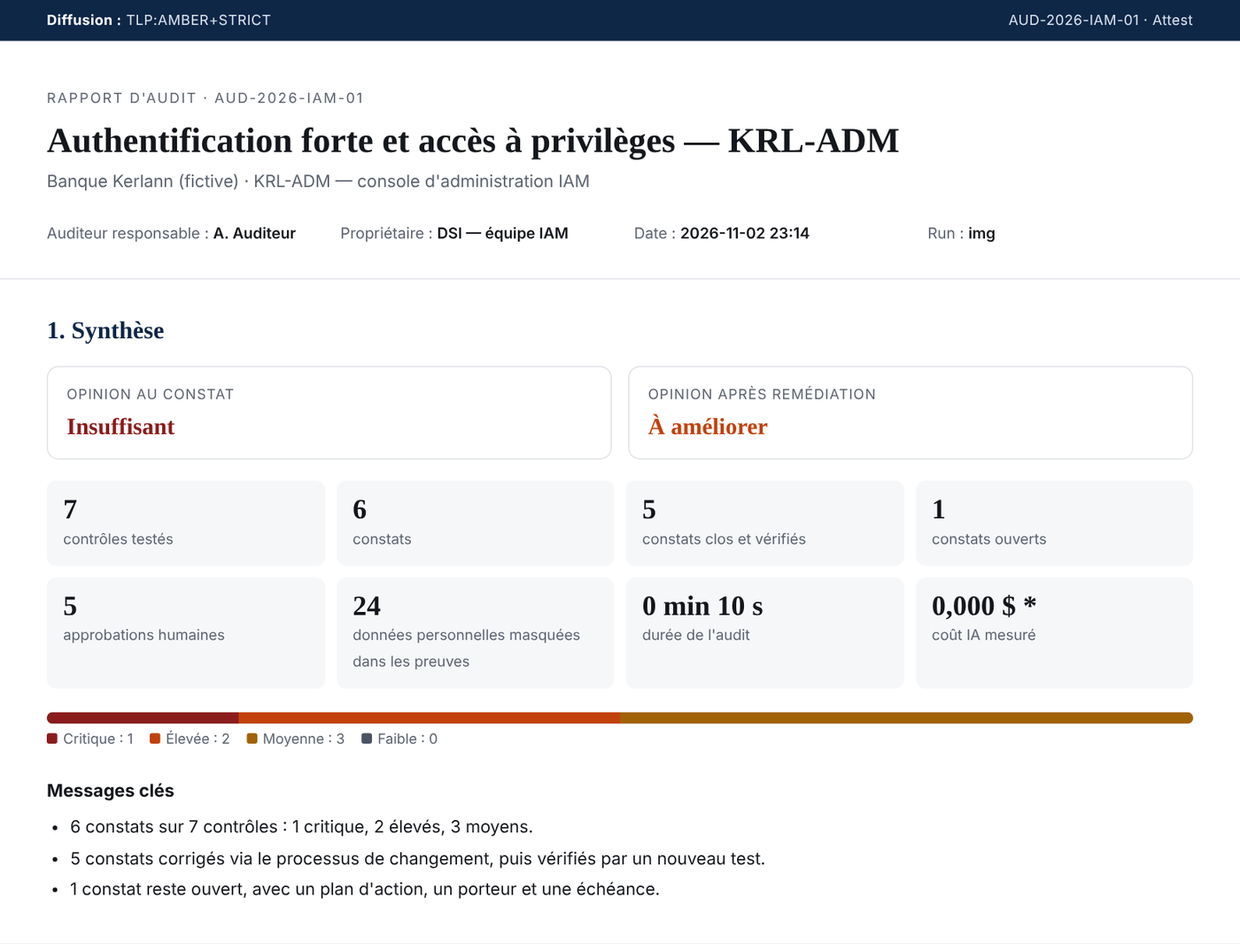
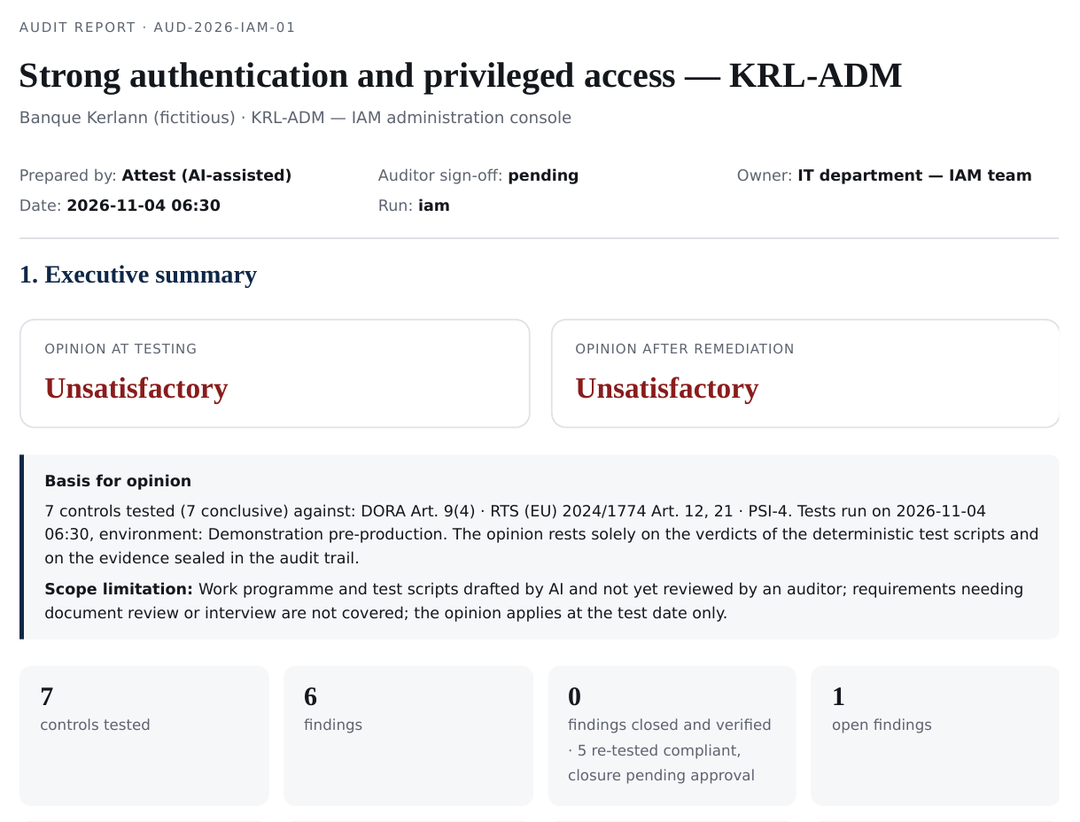
Docs : promesse de masquage exacte (SAM 3.1 reçoit la capture brute), stabilité sur 5 bancs, 3 audits IAM sourcés, script vidéo rééquilibré, démo cohérente, images du README en anglais depuis 20261104-063210-iam-meta
Claude-Session: https://claude.ai/code/session_015LoByD6cERNBp36235MFxF

diff --git a/docs/SUBMISSION.md b/docs/SUBMISSION.md
@@ -15,34 +15,43 @@ Do not add a number that is not sourced there.
 > a deterministic safety net. Fixes become change requests that the system owner approves; Attest applies them with a
 > separate account, logs them and re-tests. Everything is sealed in a hash-chained audit trail.
 >
-> Measured on real runs: 56/56 checks correct on 8 fictitious banks in each of 4 runs, 0 false finding, 0 missed,
-> prompt injection flagged every time ($0.50–0.53 per run); an IAM audit with 6 non-compliances, 5 fixes re-tested compliant ($0.12); 7/7 planted flaws found in
-> a code repository on 4 of 5 runs ($0.48 on the run shown). The test set is small and self-built: encouraging, not proof of general accuracy.
+> Measured on real runs: 56/56 checks correct on 8 fictitious banks in each of 5 runs, 0 false finding, 0 missed,
+> prompt injection flagged every time ($0.50–0.53 per run); an IAM audit with 6 non-compliances and 5 fixes re-tested
+> compliant on each of 3 runs ($0.12–0.13 per run); 7/7 planted flaws found in a code repository on 4 of 5 runs ($0.48 on
+> the run shown). The test set is small and self-built: encouraging, not proof of general accuracy.
 
-Sources: `20261103-232326-bench-meta`, `20261103-235819-bench-meta`, `20261104-020142-bench-meta`,
-`20261104-064005-bench-meta`, `20261103-234915-iam-meta`, `20261103-234658-code-meta` (code runs: `20261103-230340`, `20261103-234658`,
-`20261104-002236`, `20261104-060119`, `20261104-062938` `-code-meta`).
+Sources: bench `20261103-232326`, `20261103-235819`, `20261104-020142`, `20261104-064005`, `20261104-080238`
+`-bench-meta`; IAM `20261103-234915`, `20261104-001606`, `20261104-063210` `-iam-meta` (Muse Spark `priced_usd` 0.1209,
+0.1255, 0.1266); code runs `20261103-230340`, `20261103-234658`, `20261104-002236`, `20261104-060119`,
+`20261104-062938` `-code-meta` ($0.48 = `20261103-234658-code-meta`, `priced_usd` 0.479).
 
 ## Final video script (3:00, English)
 
 Aligned with [DEMO.md](DEMO.md) (same scenes, reordered to open on the most visual moment). Recording setup and
-fallbacks are in DEMO.md. On-screen captions in *italics*.
+fallbacks are in DEMO.md. On-screen captions in *italics*. Paced at about 140–150 spoken words per minute (≈ 400
+words); the last seconds are a silent end card.
 
 | Time | Screen | Voice-over |
 |---|---|---|
-| 0:00–0:12 | Close-up of an evidence screenshot: SAM 3.1 outlines appear on the failing rows, then the e-mails and IPs are blacked out | "This is audit evidence. A red box on the row that fails the control — and every e-mail and IP masked before it leaves the system. That is SAM 3.1, inside a compliance auditor." |
-| 0:12–0:25 | Report filling live; caption *Attest — audits that test, not read* | "Since January 2025, DORA requires EU banks and other financial entities to prove their ICT controls work. Today that proof is screenshots in spreadsheets. Attest tests the system itself — read-only — and writes the report a CISO signs." |
-| 0:25–0:55 | Attest Studio: tick DORA 9(4), RTS 21 and the internal policy, pick the IAM console, *Draft the work programme*; review page with verified quotes and "document review / interview" badges; type a name, approve | "Pick the regulation, pick the system. Muse Spark drafts the audit programme, and every requirement must quote the text word for word — checked by code. Thresholds say where they come from; what cannot be tested is listed as not covered. Nothing runs until an auditor approves." |
-| 0:55–1:30 | Live report: tests running, screenshots, SAM outlines, masked data | "Each control becomes a read-only test script. The verdict comes from the script, never from the model. Muse Spark reads the screenshot to corroborate it; SAM 3.1 makes the evidence precise and private, with a deterministic safety net — privacy cannot depend on a model's recall." |
-| 1:30–1:55 | CLI remediation: change request, owner types `y`; re-test green; shared admin account → action plan; caption *6 non-compliances · 5 fixes re-tested compliant · run 20261103-234915-iam-meta* | "Fixing is not the auditor's job. Attest drafts the change, the system owner approves it, it is applied with a separate account, logged and re-tested. A shared admin account is an ownership decision, so it becomes an action plan." |
-| 1:55–2:20 | Studio: RTS 16 + secure-development policy, target = code repository; findings with outlined lines and masked secrets; caption *7/7 planted flaws · run 20261103-234658-code-meta* | "Same agent, another target: a payment microservice. Hard-coded secrets, TLS checks off, MD5 passwords, a production export in the test data — each finding points at the exact lines, secrets masked. Seven of seven on four of our five runs; on the other, one screenshot didn't back the script, so Attest sent it to a human instead of guessing." |
-| 2:20–2:40 | Evaluation scorecard; caption *56/56 on 4 of 4 runs · 0 false finding · 0 missed · injection flagged*; then `attest verify` failing on an edited screenshot | "We don't train the model, we measure the agent: 56 checks on eight fictitious banks with known answers, all correct on four separate runs, and the injection flagged every time. It's our own small test set — a start, not a proof. And every piece of evidence is hash-chained: edit one pixel and verification fails." |
-| 2:40–3:00 | README table of Meta models, `ATTEST_BACKEND=local`, report annex C cost; caption *$0.12 of Muse Spark calls for the IAM audit* | "Muse Spark plans, codes and reviews the evidence; SAM 3.1 makes it precise and private; and the agent is designed to run on open-weights Muse Glimmer inside the bank. Twelve cents of model calls for a full audit, and the same tests replay every month. Attest: audits that test, not read." |
+| 0:00–0:12 | Close-up of an evidence screenshot: SAM 3.1 outlines appear on the failing rows, then the e-mails and IPs are blacked out | "This is audit evidence. SAM 3.1 draws a red box on the row that fails the control — and every e-mail and IP is masked before anyone reads the report." |
+| 0:12–0:25 | Report filling live; caption *Attest — audits that test, not read* | "Under DORA, EU banks must prove that their ICT controls work. Today that proof is screenshots pasted into spreadsheets. Attest tests the system itself — read-only — and writes the report a CISO signs." |
+| 0:25–0:52 | Attest Studio: tick DORA 9(4), RTS 21 and the internal policy, pick the IAM console, *Draft the work programme*; review page with verified quotes and "document review / interview" badges; type a name, approve | "Pick the regulation, pick the system: here DORA article nine, the access-control standard and the bank's own policy. Muse Spark drafts the audit programme, and every requirement must quote the text word for word — checked by code. Each threshold says where it comes from; what cannot be tested is listed as not covered. Nothing runs until an auditor reviews it, types a name and approves." |
+| 0:52–1:23 | Live report: tests running, screenshots, SAM outlines, masked data | "Each control becomes a small, read-only test script. The verdict comes from the script, never from the model. Muse Spark reads the screenshot to corroborate it; if they disagree, a human decides. Before the model sees anything, a deterministic net blacks out the personal data, and SAM 3.1 snaps the outline onto the exact row. Privacy cannot depend on a model's recall. And the scripts are kept, so next month the same tests replay." |
+| 1:23–1:43 | CLI remediation: change request, owner types `y`; re-test green; shared admin account → action plan; caption *6 non-compliances · 5 fixes re-tested compliant · same result on 3 real runs* | "Fixing is not the auditor's job. Attest drafts the change; the system owner approves it — here, by typing yes. It is applied with a separate account, logged by the system and re-tested: green. A shared admin account is an ownership decision, so it becomes an action plan." |
+| 1:43–2:08 | Studio: RTS 16 + secure-development policy, target = code repository; findings with outlined lines and masked secrets; caption *7/7 planted flaws on 4 of 5 runs · e.g. run 20261103-234658-code-meta* | "Same agent, another target: a payment microservice. Hard-coded secrets, TLS checks off, MD5 passwords, a production export in the test data — each finding points at the exact lines, secrets masked. Seven of seven planted flaws on four of our five runs; on the other, one screenshot didn't back the script, so Attest asked a human instead of guessing." |
+| 2:08–2:26 | Evaluation scorecard; caption *56/56 on 5 of 5 runs · 0 false finding · 0 missed · injection flagged* | "We don't train the model, we measure the agent: 56 checks on eight fictitious banks with known answers, all correct on five separate runs, and the injection flagged every time. Our own small test set — a start, not a proof." |
+| 2:26–2:33 | `attest verify` failing on an edited screenshot | "Every screenshot, script and report is hash-chained: change one pixel and verification fails." |
+| 2:33–2:53 | README table of Meta models, `ATTEST_BACKEND=local`, report annex C cost; caption *$0.12–0.13 of Muse Spark calls per IAM audit · 3 real runs* | "Muse Spark plans, codes and reviews; SAM 3.1 makes the evidence precise; and the agent is designed to run on open-weights Muse Glimmer inside the bank. Less than thirteen cents of model calls for the IAM audit you just saw. Attest: audits that test, not read." |
+| 2:53–3:00 | End card: *Attest — audits that test, not read* · repository URL | (silence) |
 
-Spoken numbers and their sources: 6 / 5 / $0.12 → `20261103-234915-iam-meta` (Muse Spark `priced_usd` 0.1209; SAM 3.1
-has no public price and is excluded); 7/7 → `20261103-234658-code-meta` (4 of 5 code runs, see above); 56/56, 0 FP, 0 FN, injection flagged, on each of
-`20261103-232326`, `20261103-235819`, `20261104-020142`, `20261104-064005` `-bench-meta`. Do not say "closed" for the fixes: they ran under demo pre-approvals, so they are
-"re-tested compliant", closure pending the owner's approval.
+Spoken numbers and their sources: 6 / 5 → each of `20261103-234915`, `20261104-001606`, `20261104-063210` `-iam-meta`
+(6 failing controls out of 7, 5 re-tested compliant, 1 action plan); "less than thirteen cents" → Muse Spark
+`priced_usd` 0.1209 / 0.1255 / 0.1266 on those three runs (SAM 3.1 has no public price and is excluded) — check annex C
+of the run you record before keeping the sentence; 7/7 on 4 of 5 → the five `-code-meta` runs above (the work
+programme, re-planned on each run, counted 7, 7, 7, 10 and 9 controls); 56/56, 0 FP, 0 FN, injection flagged, on each
+of the five `-bench-meta` runs above. Do not say "closed" for the fixes: they ran under demo pre-approvals, so they are
+"re-tested compliant", closure pending the owner's approval. Do not say evidence is masked "before it leaves the
+system": Muse Spark only sees a pre-masked copy, but SAM 3.1 still receives the raw screenshot.
 
 ## Bonus prizes targeted
 
@@ -56,11 +65,12 @@ has no public price and is excluded); 7/7 → `20261103-234658-code-meta` (4 of 
 
 - **Creative** — segmentation used as an audit instrument: SAM 3.1 snaps the model's boxes onto the exact rows that
   prove a finding and masks personal data; masking is measured against the page DOM (256/256 on every benchmark run:
-  `20261103-232326`, `20261103-235819`, `20261104-020142`, `20261104-064005` `-bench-meta`).
+  `20261103-232326`, `20261103-235819`, `20261104-020142`, `20261104-064005`, `20261104-080238` `-bench-meta`).
 
 ## Before submitting (for the author)
 
 - **Choose a LICENSE** for the repository and add it yourself (none is included on purpose).
 - Check the regulation excerpts in `exigences/library/` on EUR-Lex (in particular RTS 2024/1774 article 21(1)(e)(ii),
   now cited for dedicated administrator access).
-- Refresh the README images from run `20261103-234915-iam-meta` (English) if not done yet.
+- README images now come from the English PDF of run `20261104-063210-iam-meta`; refresh them if a later run is shown.
+- Open Weights: confirm the Muse Glimmer licence (Apache 2.0 or not) before writing it anywhere.

diff --git a/README.md b/README.md
@@ -5,17 +5,21 @@ evidence, routes fixes to the system owner for approval, re-tests, and writes th
 Built on **Muse Spark 1.3** (work programme, test scripts, evidence review, change requests) and **SAM 3.1**
 (proving rows outlined, personal data masked). Meta Global AI Developer Hackathon · track "Build for Your World".
 
+**Why it matters:** DORA makes every EU bank prove its ICT controls work. Today that proof is screenshots pasted into
+spreadsheets, re-checked by hand months later. Attest turns it into a sealed, re-playable test.
+
 Measured on real runs with the Meta Model API (ids from our run ledger; Muse Spark cost, SAM 3.1 has no public price):
 
 | Run | Result | Cost |
 |---|---|---|
-| Benchmark, 8 fictitious banks, 4 runs (`20261103-232326`, `20261103-235819`, `20261104-020142`, `20261104-064005` `-bench-meta`) | **56/56 checks correct on every run, 0 false finding, 0 missed, prompt injection flagged 4/4**, 256/256 personal-data items masked each time | $0.50–0.53, 300–417 s per run |
-| IAM console audit with remediation (`20261103-234915-iam-meta`) | **6 non-compliances; 5 fixes applied after (demo) pre-approval and re-tested compliant**, 1 action plan | $0.12, 77 s |
-| Code repository audit, 5 runs (`20261103-230340`, `20261103-234658`, `20261104-002236`, `20261104-060119`, `20261104-062938` `-code-meta`) | **7/7 planted flaws found on 4 of 5 runs**, each with its evidence; on `20261104-002236`, 6 found, 1 sent to human review because the screenshot did not back the script, 1 evidence error (fixed since: a missing file is now a technical error, never a finding) | $0.33–0.74 |
+| Benchmark, 8 fictitious banks, 5 runs (`20261103-232326`, `20261103-235819`, `20261104-020142`, `20261104-064005`, `20261104-080238` `-bench-meta`) | **56/56 checks correct on every run, 0 false finding, 0 missed, prompt injection flagged 5/5**, 256/256 personal-data items masked each time | $0.50–0.53, 300–417 s per run |
+| IAM console audit with remediation, 3 runs (`20261103-234915`, `20261104-001606`, `20261104-063210` `-iam-meta`) | **6 non-compliances on every run; 5 fixes applied after (demo) pre-approval and re-tested compliant**, 1 action plan | $0.12–0.13, 73–87 s per run |
+| Code repository audit, 5 runs (`20261103-230340`, `20261103-234658`, `20261104-002236`, `20261104-060119`, `20261104-062938` `-code-meta`) | **7/7 planted flaws found on 4 of 5 runs**, each with its evidence (the work programme, re-planned on each run, tested them as 7 to 10 controls); on `20261104-002236`, 6 found, 1 sent to human review because the screenshot did not back the script, 1 evidence error (fixed since: a missing file is now a technical error, never a finding) | $0.33–0.74 |
 
 Caveat: the test set is small, fictitious and built by us. Encouraging, not a proof of general accuracy.
 
 ![Executive summary of an Attest report](docs/img/report-summary.png)
+*Executive summary, from real run `20261104-063210-iam-meta` (English PDF report).*
 
 ## Why
 
@@ -32,9 +36,9 @@ with human approval for every change.
 1. **Framework**: tick verified excerpts of DORA (art. 9(3), 9(4)) and of the technical standard RTS 2024/1774
    (art. 6–7 cryptography, 12 logging, 16 development, 21 access control), add an internal policy, or upload your own
    text (.md, .txt, .pdf).
-2. **Target**: the IAM admin console, or a **code repository** (a fictitious SEPA payment microservice with realistic
+2. **Target**: the IAM admin console, or a **code repository** (a fictitious SEPA payment microservice with 7 planted
    flaws: hard-coded secrets, TLS verification disabled, MD5 password hashing, no SAST in CI, unpinned dependencies,
-   a production export in the test fixtures).
+   a production export in the test fixtures, and no logging of authentication successes and failures).
 3. **Grounded interpretation** (Muse Spark): every requirement must quote the text **word for word** — the quote is
    checked by code, and a requirement whose quote cannot be found is rejected. Every threshold says where it comes from
    (your policy, a named public standard marked *proposal*, or the text). Requirements are triaged into *testable
@@ -57,10 +61,10 @@ Quote verification, testability triage and mandatory approval are there because 
 |---|---|---|
 | 1. Work programme | Reads the framework (DORA art. 9(4), RTS 2024/1774 art. 12 and 21, internal policy) and writes a catalogue of testable controls with severity, risk and recommendation. Cached for auditor review. | **Muse Spark 1.3** |
 | 2. Test | Writes one read-only Python test per control, statically checked, executed with a read-only service account. The **verdict comes from the script, never from the model**. Scripts are kept in a reviewable library and replayed on later runs. | **Muse Spark 1.3** |
-| 3. Evidence | Captures the admin page, asks the model whether it corroborates the test (disagreement → *needs review*), and spots prompt-injection attempts. The model only receives the screenshot after the deterministic net has blacked out the personal data found in the page (the benchmark alone sends synthetic data unmasked, to measure the model's own recall). | **Muse Spark 1.3** (vision) |
-| 4. Annotate | Snaps the model's boxes onto what is really on screen: proving rows are outlined, e-mails and IPs are masked before the evidence leaves the system. Masking coverage is measured against the page DOM. | **SAM 3.1** |
+| 3. Evidence | Captures the admin page, asks the model whether it corroborates the test (disagreement → *needs review*), and spots prompt-injection attempts. Muse Spark only receives a copy of the screenshot on which the deterministic net has already blacked out the personal data found in the page (the benchmark alone sends synthetic data unmasked, to measure the model's own recall). | **Muse Spark 1.3** (vision) |
+| 4. Annotate | Snaps the model's boxes onto what is really on screen: proving rows are outlined, e-mails and IPs are masked in every image Attest keeps or puts in a report. SAM 3.1 itself still receives the raw screenshot (through the Meta Model API in our runs) to segment it: a known limit, so in confidential mode it has to run inside the bank too. Masking coverage is measured against the page DOM. | **SAM 3.1** |
 | 5. Remediate (optional) | Drafts a minimal change request per finding. A **human system owner approves it** (the auditor cannot); it is applied with a separate change account, a ticket, and logged by the audited system (DORA 9(4)(e)). Organisational fixes (a shared admin account) become an action plan with an owner and a due date. | **Muse Spark 1.3** |
-| 6. Re-test and report | Replays the same script, seals new evidence, issues an HTML + PDF report with an executive opinion, findings in Criteria / Condition / Risk / Recommendation form, a traceability matrix, an evidence register, measured AI cost and a hash-chained audit trail. | — |
+| 6. Re-test and report | Replays the same script, seals new evidence, issues an HTML + PDF report with an executive opinion, findings in Criteria / Condition / Probable cause / Risk / Recommendation form (the cause is marked as an AI hypothesis to confirm with the owner), a traceability matrix, an evidence register, measured AI cost and a hash-chained audit trail. | — |
 
 **Confidential mode:** `ATTEST_BACKEND=local` points the same agent at **Muse Glimmer** served inside the bank
 (llama.cpp, vLLM, SGLang). This is a supported backend, **not yet benchmarked on real hardware**: every measured result
@@ -68,6 +72,7 @@ in this README comes from the Meta Model API. For a bank it is not a nice-to-hav
 model API makes that API an ICT third-party provider under DORA. See [docs/BUSINESS_CASE.md](docs/BUSINESS_CASE.md).
 
 ![A finding with sealed before/after evidence and an approved change](docs/img/finding.png)
+*A finding with sealed before/after evidence and a (demo) pre-approved change, from real run `20261104-063210-iam-meta`.*
 
 ## Built the way a bank would have to run it
 
@@ -80,7 +85,9 @@ model API makes that API an ICT third-party provider under DORA. See [docs/BUSIN
 - **Privacy that does not depend on a model**: personal data is masked in two layers — what Muse Spark spots, refined by
   SAM 3.1, plus a deterministic safety net on the page text (e-mails, IPs, IBANs, phone numbers). Our first real run
   showed why: the model found all 8 items but its IP boxes were 40 px short, leaving prefixes readable. The report now
-  shows both figures. Personal data in the report text is pseudonymised; unmasked screenshots are never kept.
+  shows both figures. Personal data in the report text is pseudonymised; unmasked screenshots are never kept, and
+  Muse Spark only sees a pre-masked copy. One gap remains: SAM 3.1 receives the raw screenshot to segment it, so in
+  confidential mode it must run inside the bank as well.
 - **Measured cost**: tokens are counted on every call and priced from `pricing.toml` (sources cited).
 - **Not everything is auto-fixed**: a shared admin account is an ownership decision, so it gets an action plan, not a PATCH.
 
@@ -107,7 +114,8 @@ python -m attest verify runs/<run-folder>              # integrity check
 ```
 
 The report (`runs/<run>/report.html`) refreshes live during the audit; `report.pdf` is written at the end.
-A real IAM audit with remediation cost $0.12 of Muse Spark calls (ledger run `20261103-234915-iam-meta`); what the
+A real IAM audit with remediation cost $0.12–0.13 of Muse Spark calls and 73–87 s (ledger runs `20261103-234915`,
+`20261104-001606`, `20261104-063210` `-iam-meta`); what the
 first real runs measured and revealed is in [`examples/README.md`](examples/README.md) and
 [docs/BUSINESS_CASE.md](docs/BUSINESS_CASE.md).
 Useful flags: `--lang en`, `--approve-all --approver "IAM owner"` (pre-approved, demo only), `--fresh`
@@ -120,7 +128,7 @@ We do not fine-tune anything: the model is not the judge, and a bank cannot hand
 edge cases, generic accounts, prompt injection, a 56-account directory) and reports accuracy, false findings, missed
 non-compliances, privacy masking and cost. See [docs/EVALUATION.md](docs/EVALUATION.md).
 
-Five real runs of the same benchmark (Muse Spark 1.3 + SAM 3.1; the first from `examples/`, the other four from the run ledger):
+Six real runs of the same benchmark (Muse Spark 1.3 + SAM 3.1; the first from `examples/`, the other five from the run ledger):
 
 | Run | Checks correct | False findings / missed | Injection | Personal data spotted by the model / masked | Cost, time |
 |---|---|---|---|---|---|
@@ -129,11 +137,11 @@ Five real runs of the same benchmark (Muse Spark 1.3 + SAM 3.1; the first from `
 | Stability run, ledger `20261103-235819-bench-meta` | 56/56 | 0 / 0 | flagged | 183/256 (71 %) / 256/256 | $0.50, 334 s |
 | Stability run, ledger `20261104-020142-bench-meta` | 56/56 | 0 / 0 | flagged | 197/256 (77 %) / 256/256 | $0.50, 370 s |
 | Stability run, ledger `20261104-064005-bench-meta` | 56/56 | 0 / 0 | flagged | 221/256 (86 %) / 256/256 | $0.51, 417 s |
+| Stability run, ledger `20261104-080238-bench-meta` | 56/56 | 0 / 0 | flagged | 191/256 (75 %) / 256/256 | $0.52, 387 s |
 
-Verdicts were identical on all five runs (56/56, 0 false finding, 0 missed). The model's own recall of personal data
-ranged from 34 % to 86 %, which is why masking never depends on it: the deterministic safety net masked 256/256 every
-time. A small, self-built test set: encouraging, not a proof of
-general accuracy.
+Verdicts were identical on all six runs (56/56, 0 false finding, 0 missed, injection flagged). The model's own recall of
+personal data averaged 69 % and ranged from 34 % to 86 %, which is why masking never depends on it: the deterministic
+safety net masked 256/256 every time. A small, self-built test set: encouraging, not a proof of general accuracy.
 
 ## Repository
 

diff --git a/docs/EVALUATION.md b/docs/EVALUATION.md
@@ -33,7 +33,7 @@ policy PSI-4 written as plain, reviewable code. The agent never sees the labels.
 
 ```bash
 python -m lab.app                         # terminal 1
-python -m attest bench --lang en          # terminal 2 — measured: 300 s, $0.53 of Muse Spark 1.3 (ledger 20261103-232326-bench-meta)
+python -m attest bench --lang en          # terminal 2 — measured: 300–417 s, $0.50–0.53 of Muse Spark 1.3 (5 ledger bench runs, below)
 ```
 
 Output in `runs/bench-<date>/`: `scorecard.html` (with a link to each scenario's full audit report), `scorecard.md`,
@@ -47,6 +47,10 @@ personal data spotted by the AI vs masked in the end, injection attempts flagged
 | Mock (pipeline sanity check in CI, `tests/test_bench.py`: 2 scenarios, simulated model — not a measurement) | 14 | 100 % | 0 | 0 | simulated / 100 % | 1/1 | — |
 | **Muse Spark 1.3 + SAM 3.1** (2 Nov 2026, [scorecard](../examples/evaluation-en/scorecard.md)) | 56 | **100 %** | **0** | **0** | 70 % (178/256) / **100 %** | 1/1 | $0.65 for 8 systems, 240 s |
 | **Muse Spark 1.3 + SAM 3.1**, replay in GitHub Actions (3 Nov 2026, ledger `20261103-232326-bench-meta`) | 56 | **100 %** | **0** | **0** | 34 % (87/256) / **100 %** | 1/1 | $0.53 for 8 systems, 300 s |
+| **Muse Spark 1.3 + SAM 3.1**, stability run (3 Nov 2026, ledger `20261103-235819-bench-meta`) | 56 | **100 %** | **0** | **0** | 71 % (183/256) / **100 %** | 1/1 | $0.50 for 8 systems, 334 s |
+| **Muse Spark 1.3 + SAM 3.1**, stability run (4 Nov 2026, ledger `20261104-020142-bench-meta`) | 56 | **100 %** | **0** | **0** | 77 % (197/256) / **100 %** | 1/1 | $0.50 for 8 systems, 370 s |
+| **Muse Spark 1.3 + SAM 3.1**, stability run (4 Nov 2026, ledger `20261104-064005-bench-meta`) | 56 | **100 %** | **0** | **0** | 86 % (221/256) / **100 %** | 1/1 | $0.51 for 8 systems, 417 s |
+| **Muse Spark 1.3 + SAM 3.1**, stability run (4 Nov 2026, ledger `20261104-080238-bench-meta`) | 56 | **100 %** | **0** | **0** | 75 % (191/256) / **100 %** | 1/1 | $0.52 for 8 systems, 387 s |
 
 Costs are the Muse Spark tokens priced from `pricing.toml`; SAM 3.1 has no published price yet, so the spending cap counts it with a conservative estimate instead.
 
@@ -55,7 +59,10 @@ The code-repository target (Attest Studio) is not yet part of this set; the next
 What these numbers do and do not say: 56/56 is the score on a small test set that we designed ourselves, with a
 policy clarified after the first real run. It shows the pipeline holds on thresholds, generic accounts and prompt
 injection; it does not prove general accuracy. Next steps: a blind set written by someone else, and the code target.
-The model alone spotted 70 % of the personal data on the pages on the first run and 34 % on the replay; the deterministic safety net masked the rest both times. Verdicts were stable across the two runs (56/56 twice); the model's recall of personal data was not — which is exactly why masking does not depend on it.
+Across the six real runs, verdicts were identical (56/56, 0 false finding, 0 missed, injection flagged 1/1 every time).
+The model's own recall of personal data was not stable: 69 % on average, from 34 % (`20261103-232326-bench-meta`) to
+86 % (`20261104-064005-bench-meta`). The deterministic safety net masked 256/256 on every run — which is exactly why
+masking does not depend on the model.
 
 Known weaknesses found so far on real runs (see [`examples/README.md`](../examples/README.md)): IP-address boxes drawn
 too short by the model (caught by the deterministic safety net), and an over-strict reading of an ambiguous policy rule

diff --git a/docs/DEMO.md b/docs/DEMO.md
@@ -5,10 +5,33 @@
 ```bash
 # terminal 1: audited console + Studio (http://127.0.0.1:8000)
 bash scripts/start.sh
-# terminal 2: warm-up run, caches the work programme and the test scripts
+# terminal 2: environment for every command below
 source .venv/bin/activate; set -a; source .env; set +a
 export ATTEST_LANG=en ATTEST_AUDITOR="<your name>" ATTEST_APPROVER="IAM owner"
-python -m attest run --reset-lab --remediate --approve-all --out runs/warmup
+```
+
+Three warm-ups, all before the recording session:
+
+1. **IAM (CLI)** — caches the work programme and the test scripts, and gives a finished report to fall back on:
+   ```bash
+   python -m attest run --reset-lab --remediate --approve-all --out runs/warmup
+   ```
+2. **Code repository (Studio)** — in the browser: tick RTS 16 and the secure-development policy (PDS-2), pick the
+   code repository target, *Draft the work programme*, approve, run the audit. The finished report lands in
+   `runs/studio/<session>/audit/report.html`; note the session id, it is the fallback for the code scene. The Studio
+   re-plans on each new session, so the live take may list a different number of controls (7 to 10 on our real runs).
+3. **Benchmark scorecard (pre-recorded)** — a full bench is far too long to run on camera (300–417 s on the five ledger
+   runs), so record the scorecard from a finished one:
+   ```bash
+   python -m attest bench --lang en --out runs/bench-demo      # then open runs/bench-demo/scorecard.html
+   ```
+   Without a key or time, show [`examples/evaluation-en/scorecard.html`](../examples/evaluation-en/scorecard.html)
+   or the `scorecard.md` kept with a ledger bench run on the `real-results` branch.
+
+The live IAM take writes to its own folder, so the warm-up stays intact as a fallback:
+
+```bash
+python -m attest run --reset-lab --remediate --out runs/demo        # owner types y on camera
 ```
 
 Arrange the screen: terminal on the left, the browser on the right.
@@ -22,6 +45,10 @@ so that there is a single script to record from.
 
 ## Fallbacks
 
-- API slow or rate-limited: `ATTEST_WORKERS=3`, or show the warm-up run's report and narrate.
-- Tamper demo: `cp runs/demo/evidence/C1_before.png /tmp/b.png`, paint on it, run `verify`, restore the copy.
-- Injection demo: restart the lab with `LAB_INJECTION=1`, run without `--remediate`, show the banner in the report.
+- API slow or rate-limited: `ATTEST_WORKERS=3`, or show `runs/warmup/report.html` (IAM) or the Studio warm-up report
+  (code) and narrate.
+- Tamper demo: `cp runs/demo/evidence/C1_before.png /tmp/b.png`, paint on `runs/demo/evidence/C1_before.png`, run
+  `python -m attest verify runs/demo`, then restore the copy (if the live take failed, do the same on `runs/warmup`).
+- Bench scene: never run the bench live; use `runs/bench-demo/scorecard.html` from warm-up 3.
+- Injection demo: restart the lab with `LAB_INJECTION=1`, run without `--remediate` (`--out runs/demo-injection`),
+  show the banner in the report.

diff --git a/docs/ARCHITECTURE.md b/docs/ARCHITECTURE.md
@@ -84,7 +84,7 @@ proves its result (e.g. the faulty file); SAM 3.1 then outlines the faulty lines
 | Auditor approving own fix | Independence breach | Run aborts if approver equals lead auditor |
 | Evidence tampering | Screenshot edited after the fact | SHA-256 chain + manifest; `attest verify` |
 | Personal data or secrets leaking in reports | E-mails, IPs, IBANs, customer names, passwords in screenshots or test output | Two layers: model + SAM masking, then a deterministic regex safety net on the page text; coverage measured per layer; report text pseudonymised; raw capture deleted |
-| Data leaving the bank | Evidence sent to an external API | Local backend on Muse Glimmer (open weights, Apache 2.0) |
+| Data leaving the bank | Evidence sent to an external API | Local backend on Muse Glimmer (open weights; licence to be confirmed; not yet benchmarked) |
 | Supply-chain / availability of the model API | Rate limits, outages | Retries with backoff; cached work programme and script library keep monitoring runs nearly model-free |
 
 ## How Attest itself lines up with DORA

diff --git a/docs/BUSINESS_CASE.md b/docs/BUSINESS_CASE.md
@@ -95,7 +95,7 @@ Team for the pilot **(assumption)**: one product owner from the second line, one
 | Agent changes production on its own | No write access during tests; human approval, allow-list, separate change account, ticket |
 | Misreading the regulation | Work programme reviewed by an auditor; references shown on every finding |
 | Model or vendor change | Backend abstraction; validated scripts no longer depend on the model |
-| Auditor adoption | Output in the audit profession's own format (opinion, Criteria/Condition/Risk/Recommendation, traceability, PDF) |
+| Auditor adoption | Output in the audit profession's own format (opinion, Criteria/Condition/Cause/Risk/Recommendation, traceability, PDF) |
 
 ## 7. KPIs for the pilot
 
